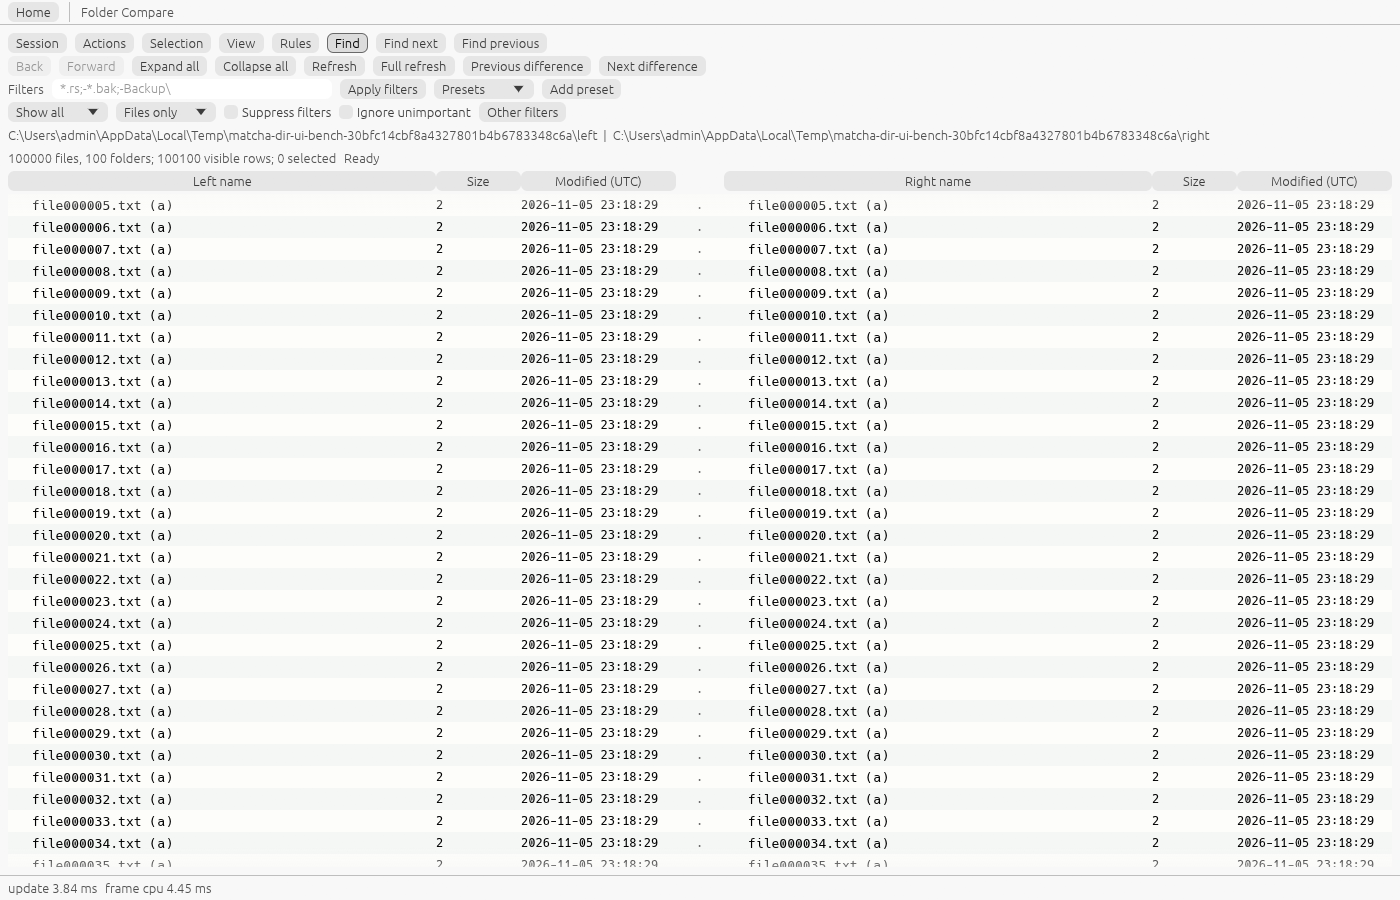
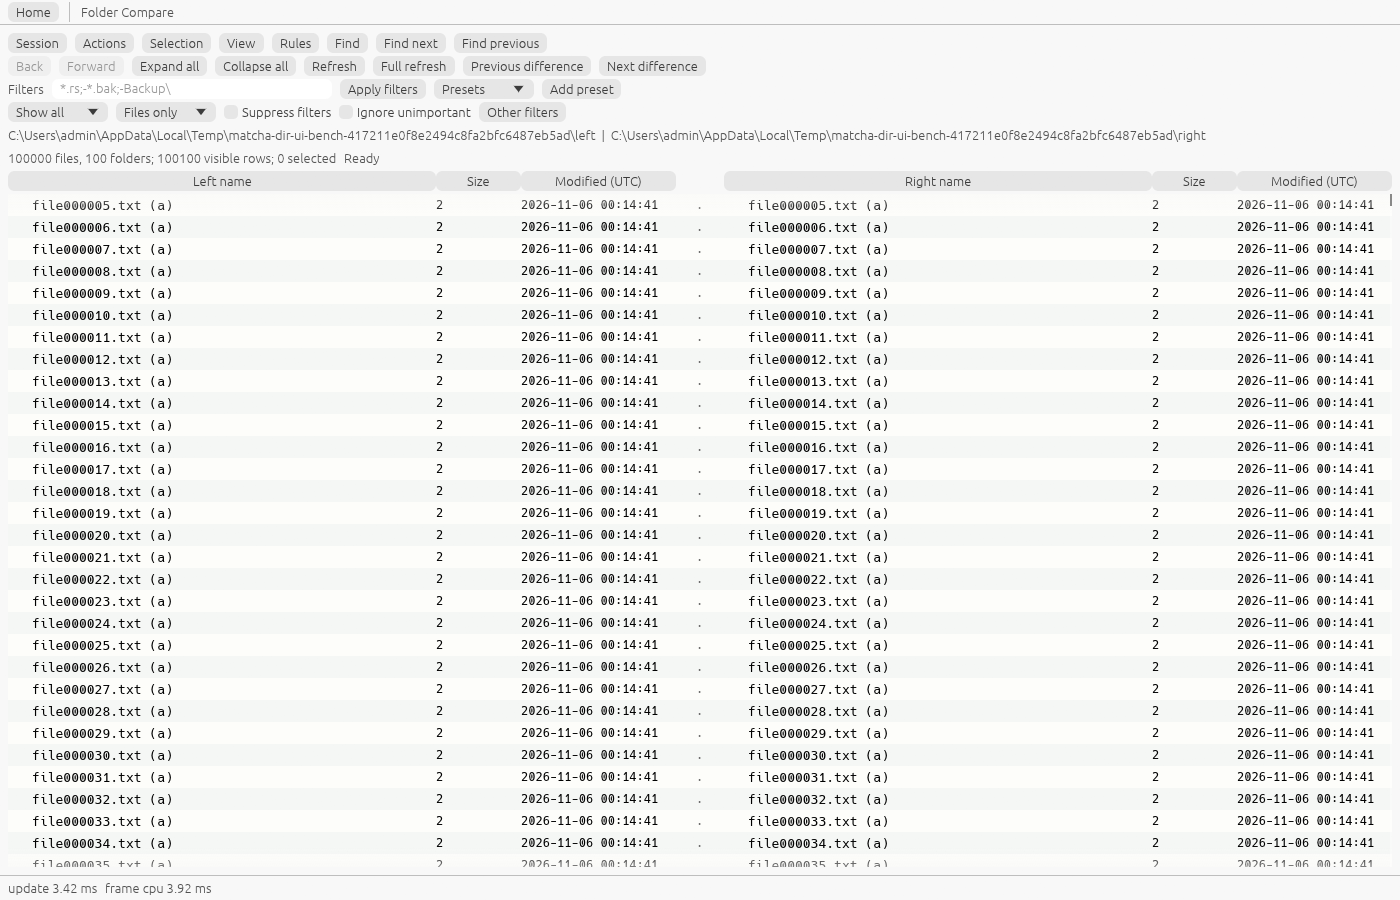
docs: report folder compare sync wave C validation

diff --git a/docs/worker-reports/folder-compare-sync-waveC.md b/docs/worker-reports/folder-compare-sync-waveC.md
@@ -1,0 +1,229 @@
+# folder-compare-sync — Wave C 实施报告
+
+## 结果与范围
+
+**任务组 6–7 共 9 项完成**，6.1–6.6、7.1–7.3 全部勾选；
+OpenSpec apply 为 **32/34**。任务组 8（全变更整体验收/合并）保持未勾选，未合并 master。
+
+最终验证：
+- `cargo clippy --workspace --all-targets -- -D warnings`：退出码 0，零 warning。
+- `cargo test --workspace`：**143 passed / 0 failed / 1 ignored**。
+- `cargo build --release -p bcompare`：退出码 0。
+- native 两侧各 10 万文件基准：**update p99 = 0.721 ms < 4 ms**，600 个样本。
+- 黄金：**28 目录对，32/33 文件行整体一致（96.969697%）**；
+  **已支持范围 32/32 = 100%**；4/4 文件夹结构配对一致；
+  **KNOWN_DIFFS 为 1 条**（已批准的规则比较 Unsupported）。
+- 文件夹比较帮助清单 110 个命令/引用条目、同步 50 个，逐条状态均有记录。
+  这不是宣称 160 个独立功能全部实现；未采纳/后置有明确理由。
+
+最后阶段原 Orca Dispatch 返回 consumer_fenced。已按工具契约停止旧派发生命周期消息，
+未重试 check 或冒发 worker_done；后续收尾依据用户直接的“continue”完成。
+本报告说明本地代码/验收结果，不代表修改了旧 Dispatch 的调度状态。
+
+## 完成清单与证据
+
+| 项 | 实现 / 验证 |
+|---|---|
+| 6.1 | dir_view 以固定 22 px 行高和 show_rows 绘制左右列、中央内容结果、颜色、目录空心/黄标/红紫摘要、DOS 后缀、链接/错误提示；列头排序/右键选列、Legend；11 个 GUI tests 中有 10 万行虚拟化断言，native 基准与真实帧截图见下 |
+| 6.2 | Filters/Other filters、XML 预设、13 种显示过滤（Show None 默认隐藏）、4 种比较目录显示、Suppress/Ignore Unimportant；Swap/Back/Forward/Browse/Up/Set Base/Compare Parent；子目录展开、选择/反选/限定侧、Find；子视图保留原基准，组件回归覆盖 |
+| 6.3 | 路径/操作/范围/确认对话框，Yes/No/YesToAll/NoToAll 桥接 Interaction；OpLog、进度、取消、文件名剪贴板请求；后台执行不阻塞绘制；回归验证等待 UI 答复前不覆盖、取消不授权删除，路径选取用文本框+最近列表 |
+| 6.4 | 同行或跨行两文件、Compare To、size/CRC/binary Quick Compare；文本原型在后台打开，再以独立浮动视图显示；跨行左右身份、CRC 与 Quick Compare 回归通过 |
+| 6.5 | 五预设/自定义映射、Rules/Filters、预览/目录动作摘要、覆盖/Exclude、冲突导航、Sync Now、统计；基线保留本视图内成功同步历史，不掩盖未解决冲突；导航可展开祖先，纯展开不清覆盖 |
+| 6.6 | Home 文件夹卡片与两目录拖放；两个目录参数自动选择 Folder Compare；普通 native 两目录启动实际通过，拖放原始输入回归通过；main 只增加目录 benchmark 参数与验证 |
+| 7.1 | gen_dir_expected.ps1 实际运行 28 组 /solo /silent load/criteria/filter/expand/report；输入先在系统临时目录生成；Flatten 用临时根级命名会话；独占锁、无其他参考进程检查、字节备份/恢复均实际通过 |
+| 7.2 | golden_dir.rs 的有界报告 XML 解析与临时物化回归；33 文件状态行、4 目录结构行；明确保留 1 行 Unsupported，不把例外冒称通过；无其他差异 |
+| 7.3 | [folder-compare](../reference-parity/folder-compare.md) 与 [folder-sync](../reference-parity/folder-sync.md) 覆盖 D10 命令与选项；110/50 条命令标签核对无遗漏，另列共享参数、未采纳与后置项 |
+
+新增测试数：GUI 11、engine view_integration 4、golden_dir 2，共 17；
+基线 126 + 17 = 143。唯一 ignored 仍是 Wave A 回收站人工测试，不重复计入自动通过数。
+
+## Native 基准与真实截图
+
+环境：Windows x86_64 MSVC，Rust/Cargo 1.99.1，eframe/egui 0.37，release。
+每侧 100 个目录 × 1,000 个 2 B 合成文件，共 **200,000 个物理文件**；
+比较模型是 100,000 个配对文件 / 100,100 个展开行。
+
+```powershell
+powershell -NoProfile -ExecutionPolicy Bypass -File tools/golden/bench_dir.ps1
+```
+
+脚本构建最新程序，生成系统临时树，运行 `matcha --bench-dir <left> <right>`，
+验证输出并清理树。30 个 warm-up 后计时 600 个 App::ui 样本；
+截图采集在 warm-up，图片写出由后台线程完成。没有修改 text_view.rs 或 bench.rs。
+
+| 指标 | 交付复测 |
+|---|---:|
+| fixture 生成（不计入 UI 帧） | 58.995266 s |
+| measured samples | 600 |
+| update p50 | 0.445 ms |
+| update p95 | 0.620 ms |
+| **update p99** | **0.721 ms** |
+| update max | 0.935 ms |
+| 每次最多实际绘制行数 | 32 |
+| native 总时间（含加载、warm-up、计时） | 30.942 s |
+| benchmark process exit / pass | 0 / true |
+
+spacing 在 show_rows **之前**设为零，实际绘制 range 用于 top-row 统计，
+避免把 22 px 跳转映射到含额外 spacing 的错误索引。
+测量为默认大小/UTC 时间列、合成小文件；不是冷盘承诺或所有列组合的统一 SLA。
+
+- [最终 10 万文件 framebuffer](assets/folder-waveC-bench.png)
+- [普通两目录启动 framebuffer](assets/folder-waveC-smoke.png)
+- 本地日志：target/folder-waveC-bench-delivery.log、folder-waveC-bench.log。
+
+最初 Win32 PrintWindow 对 OpenGL 返回黑色区域，未把黑图作为通过证据；
+改用 egui native framebuffer 回调并实际读图核对。只捕捉本应用 viewport，
+没有捕捉其他应用窗口，也没有尝试解锁桌面。
+
+## 黄金采集与一致率
+
+参考程序版本 **5.0.6.30713**。
+原程序 SHA-256：
[1 lines of base64/hex data omitted]
+完整来源见 [provenance.json](../../crates/bc-core/tests/golden/dir/provenance.json)。
+
+28 case 覆盖：
+孤儿、左右较新、容差内/边界/外、DST 开关、整小时时区忽略、
+大小、CRC 相同/不同、binary 同内容覆盖时间差、binary 不同保留较新方向、
+DOS 属性、归档默认、包含/排除/目录/相对路径/字符集/无扩展名掩码、
+Flatten、重复名称、共享相对路径重名、仅注释变化的规则比较。
+
+语料目录 154 个文件、**27,993 B**（采集时统计，含 manifest/报告/说明/哈希）。
+输入/报告行尾不做 Git 转换；CRLF 是有效 fixture 字节，不被当作尾随空白错误。
+
+| 口径 | 结果 |
+|---|---|
+| 总体文件状态 | 32 / 33 = 96.969697% |
+| 已支持文件状态 | 32 / 32 = 100% |
+| 文件夹结构配对 | 4 / 4 |
+| 已批准已知差异 | 1 行 rules-comments：原生 diff → Unsupported |
+| 其他不一致 | 0 |
+
+原生 foldercomp 没有 status 属性，因此不编造文件夹颜色一致率；
+XML 文件状态也不提供完整的重要/不重要差异统计。
+仅注释输入保留本机原生报告的实际 diff，没有为了符合预想改成“相似”。
+
+生成时 CreateNew 独占 %TEMP%/matcha-reference-tool.lock，记录 owner/UTC/PID；
+检查没有其他 BCompare.exe。只在需要 Flatten 时临时写 BCSessions.xml：
+节点直接放根下，Rules 带 TDirRules，State/DirHandling=dirFlatten。
+finally 已验证原始字节及 mtime 恢复；最终输出 settings_restored=true。
+未读取/复制授权文件，未修改安装目录、BCFileFormats.xml 或其他设置文件。
+
+文档 timezone:left+6 在该程序返回 106 Unexpected argument；该失败不生成假期望，
+不进入有效 oracle 分母；timezone:ignore 已成功覆盖。此采集限制不混入候选的 1 条已知差异。
+见 [KNOWN_DIFFS](../../crates/bc-core/tests/golden/dir/KNOWN_DIFFS.md)、
+[ADR 105](../decisions/105-folder-golden-evidence.md)。
+
+## 接口调整
+
+- **bc-core 源码 / bc-jobs / bc-engine-text：零修改**；bc-core 只新增获准的目录黄金 fixtures。
+  Cargo.toml/Cargo.lock 未改，第三方依赖零新增。
+- UI 单 worker 独占 DirTree，latest-only Arc 快照跨线程；旧大快照由 worker 回收。
+  文件 I/O、内容比较、日志/预设写入都不在绘制热路径。
+- Work 携带独立 CancelToken；取消覆盖运行中和排队任务，关闭会唤醒 worker，
+  不等待无意义的 recv timeout，更不会把取消确认当成 Yes。
+- FolderNavigation 显式携带 compare/sync 目标；独立目录子视图保留原基准，
+  新视图不等同于已经实现会话持久化/完整标签管理。
+- read_entry_details/cache_details 支持 CRC/PE 版本可选列；其他 provider 字段无值就显示不可用。
+- find_side 与侧限定刷新修复手动目录对齐后的名称遮蔽；重放按每侧原始路径，
+  精确 Align With 优先，重载保留已建立的对齐覆盖。
+- Flatten 内容缓存按左右 NodeId + 双 revision；文件操作指向显示配对的真实对侧，
+  孤儿保留原相对路径，碰撞拒绝不猜目录；同步不提供 Flatten。
+- 内容不同不再抹掉 newer 方向（原生黄金证明）；中央内容图标独立。
+  skipped 结果不写入虚假的 content_status=Same；仅版本比较也可后台执行。
+- 循环/不可读目录可见且带错误标记，不能通过反复 ScanRequired 绕过保护；
+  取消确认按 Cancelled 处理。
+- 本线决定集中在 [ADR 104](../decisions/104-folder-ui-and-virtual-pairs.md)。
+
+## 合并注意事项（仅说明，不执行任务组 8）
+
+以下行号以本报告生成时版本为准：
+
+| 文件 | 最小接线区域 |
+|---|---|
+| bc-gui/src/app.rs | 15–16：两个 Box<View> 变体；22/40/60–61：bench_dir 与目录路由；74–75：标题分支；118–130：驱动/绘制；133–145：新增 Home action 所需借用与目录入口；147–157：显式 folder navigation、benchmark 收口 |
+| bc-gui/src/home.rs | 10：OpenFolderCompare；65–78：文件夹卡片及两目录拖放 |
+| bc-gui/src/lib.rs | 25–32：新增模块导出；43：LaunchOptions.bench_dir |
+| apps/bcompare/src/main.rs | 20–23：先识别 --bench-dir，避免被旧 --bench 前缀吞掉；help 与 48–51 参数验证 |
+| bc-session/src/prefs.rs | 27–43：只新增 FolderColors 及默认值，未动 Prefs 解析/其他字段 |
+
+text_view.rs 与 bench.rs 字节未改。文件打开适配集中在新 dir_view 的
+Command::OpenText / Notice::Text / text 子窗口；当前原型可 Send。
+正式文本控件若使用 Rc/RefCell，合并时应只跨线程发送不可变模型/加载结果，
+**不要直接把正式 GUI 编辑控件放到 worker**。
+
+原型仍有原有能力限制；正式 Text Edit/Patch、外部关联、会话保存/只读继承、
+全局快捷键/工具设置、报告/打印、SCC/远程/archive 等，按对照清单明确后置/未采纳。
+不把它们写成 Wave C 已实现，也不擅自修改文本线或共享会话代码。
+
+## 手动验收与负责人复测
+
+| 验证类别 | 本轮状态 |
+|---|---|
+| native 窗口启动与实际 framebuffer 视觉核对 | 通过 |
+| 10 万文件 native 绘制与完整索引跳转 | 通过 |
+| egui Context::run_ui + worker 的选择/查找/过滤/确认/取消/跨行打开/同步等 | 通过 |
+| **物理桌面鼠标/键盘操作** | **环境受限（采证时桌面锁定），待人工验收** |
+| 系统剪贴板、原生回收站极端警告交互 | 待可交互桌面人工复测；本轮验证命令管线与 fake 回退确认 |
+
+协调者已批准前三类作为 6.x 等价验收，明确禁止冒称物理输入通过或尝试解锁。
+
+人工步骤（只用可丢弃的系统临时目录）：
+1. 运行 tools/golden/gui_smoke.ps1 -Action Start，或 cargo run --release -p bcompare -- 两个目录。
+2. Home 卡片/两目录拖放；核对同名、孤儿紫、较新红/较旧灰、属性后缀、展开/折叠。
+3. 点击列头/右键选列、Legend；测试掩码、Other size 过滤的一侧 teal、Suppress、
+   Ignore Unimportant、三种普通目录显示及 Flatten。
+4. Ctrl/Shift 选择、Select All 后 Shift 左右限定侧；Find 的 case/whole/regex/wrap/up/side；
+   Back/Forward、Up、Set Base、Compare Parent 新视图。
+5. 在临时文件上 Copy/Move/Exchange/Rename/Touch/Attributes；分别选 Yes/No/All，
+   核对覆盖较新/只读提示；取消较大操作，检查已完成部分、日志与局部刷新。
+6. 同行/跨行 Open、Compare To、Quick Compare；核对左右实际路径；子视图关闭后原基准仍在。
+7. Sync 五预设/自定义、逐项 Leave/Copy/Delete/Exclude、Next/Previous Conflict、Sync Now；
+   完成一次后修改两侧再刷新，核对基线冲突。只用临时树测试镜像删除。
+8. 检查 Copy Filename 的系统剪贴板、日志保存与重新打开后的过滤预设。
+9. tools/golden/gui_smoke.ps1 -Action Close 只关闭自有 PID 并清理该临时树。
+
+## 提交
+
+均含 Co-Authored-By: pi <noreply@pi.dev>。
+
+| 范围 | commit |
+|---|---|
+| 任务组 6 主实现 | 76806ddddd1d147aa88e945f65456ed37fe942fe |
+| 侧限定选择/对话框默认值补充 | a75d8dcdc7d835883f025adb7fbeb186033d733c |
+| 独立文件夹子视图补充 | 0642ad02754294bf231ffff19aa8fb9da03ed55c |
+| 任务组 7 黄金与对照文档 | 5cfc851859fccf03175f69afd48b81099b69f4a5 |
+
+本报告及最终截图另作 docs 提交。未进行 merge/rebase/archive，任务组 8 保持待办。
+
+## 最终输出（最后 10 行；不足则全文）
+
+### clippy --workspace --all-targets -- -D warnings
+
+```text
+    Checking bcompare v0.1.0 (C:\Users\admin\orca\workspaces\Matcha\folder-compare-sync\apps\bcompare)
+    Finished `dev` profile [unoptimized + debuginfo] target(s) in 0.83s
+```
+
+### cargo test --workspace
+
+```text
+
+running 0 tests
+
+test result: ok. 0 passed; 0 failed; 0 ignored; 0 measured; 0 filtered out; finished in 0.00s
+
+   Doc-tests bcomp
+
+running 0 tests
+
+test result: ok. 0 passed; 0 failed; 0 ignored; 0 measured; 0 filtered out; finished in 0.00s
+```
+
+### cargo build --release -p bcompare
+
+```text
+   Compiling bc-gui v0.1.0 (C:\Users\admin\orca\workspaces\Matcha\folder-compare-sync\crates\bc-gui)
+   Compiling bcompare v0.1.0 (C:\Users\admin\orca\workspaces\Matcha\folder-compare-sync\apps\bcompare)
+    Finished `release` profile [optimized + debuginfo] target(s) in 6.73s
+```

diff --git a/docs/ui-framework-decision.md b/docs/ui-framework-decision.md
@@ -103,3 +103,22 @@ cargo build --release -p bcompare
 ```
 
 The benchmark prints `bench.*` key/value lines to stdout and closes the window.
+
+## Folder view follow-up (Wave C)
+
+The independent folder track now uses a worker-owned tree and latest-only immutable GUI
+snapshots, fixed 22 px rows and `ScrollArea::show_rows`. Spacing is fixed before range
+calculation; sorting/filtering/I/O are not done in the per-frame paint loop.
+
+A native-window run with two generated 100,000-file trees (100,100 displayed rows) measured
+600 samples after 30 warm-up samples: update p50 0.445 ms, p95 0.620 ms,
+**p99 0.721 ms**, max 0.935 ms, at most 32 rows painted per pass.
+This is default-column synthetic-data evidence, not a cold-storage or every-option SLA.
+
+Reproduce with `tools/golden/bench_dir.ps1` or
+`matcha --bench-dir <left-folder> <right-folder>`.
+The native framebuffer screenshot avoids the black image returned by Win32 PrintWindow
+for OpenGL. Desktop input was restricted during capture; the owner must still perform
+the separate physical mouse/keyboard checklist in
+[the Wave C report](worker-reports/folder-compare-sync-waveC.md). Original text measurements
+above are unchanged.
